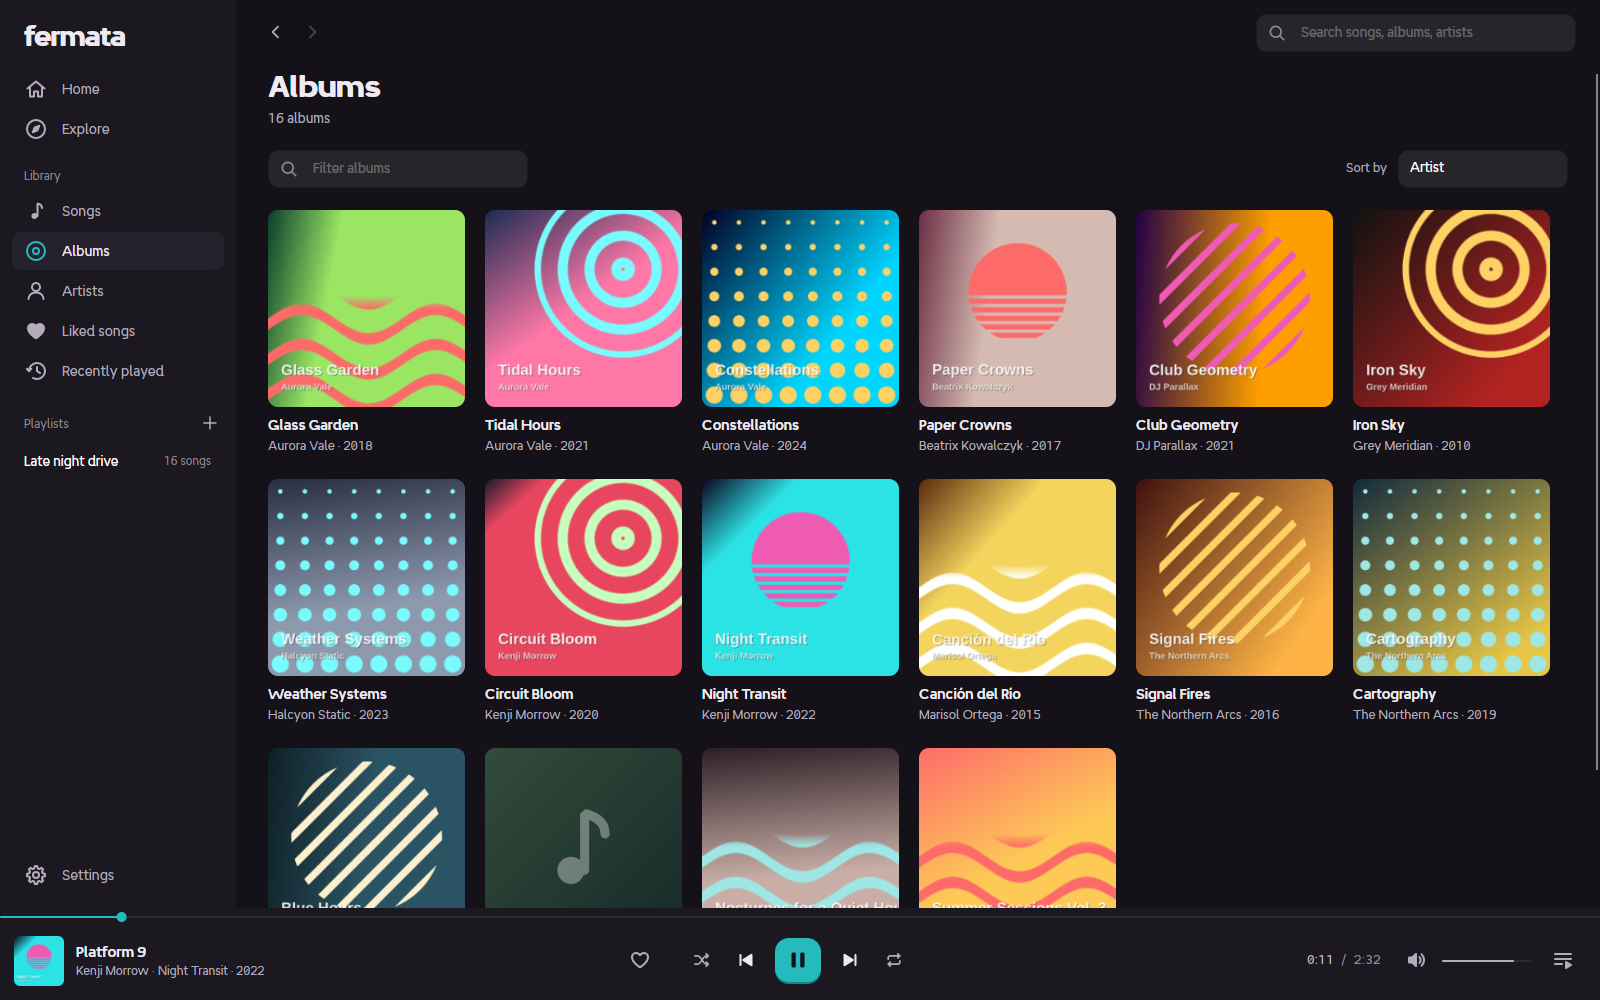
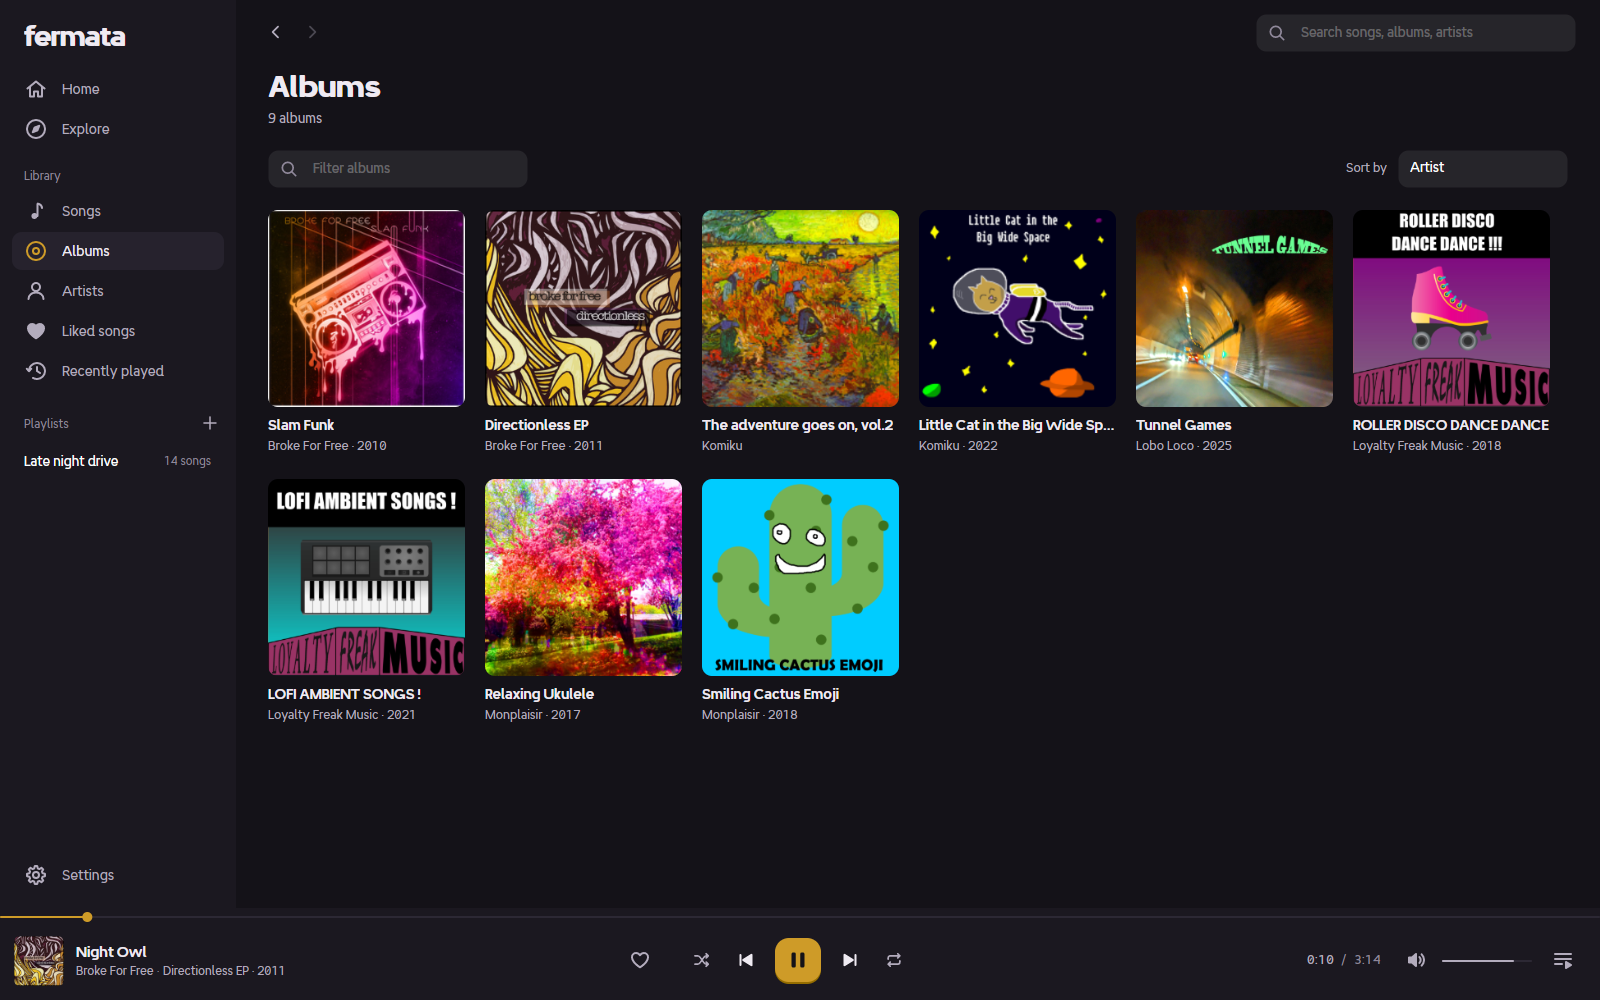
Release 0.1.1, with screenshots of Creative Commons music
The README screenshots now show real albums released under CC BY and CC0,
credited under the pictures.

diff --git a/README.md b/README.md
@@ -19,7 +19,8 @@ The background and the accent colour come from the cover of whatever's playing.
 
 ![Albums](docs/albums.png)
 
-(The songs and covers in these screenshots are made up. `tools/make-sample-library.py` generates them.)
+(The music in these screenshots is free to share: Broke For Free and Lobo Loco under CC BY 3.0, and Komiku,
+Monplaisir and Loyalty Freak Music under CC0. All of it is on the [Internet Archive](https://archive.org).)
 
 ## Installing
 
